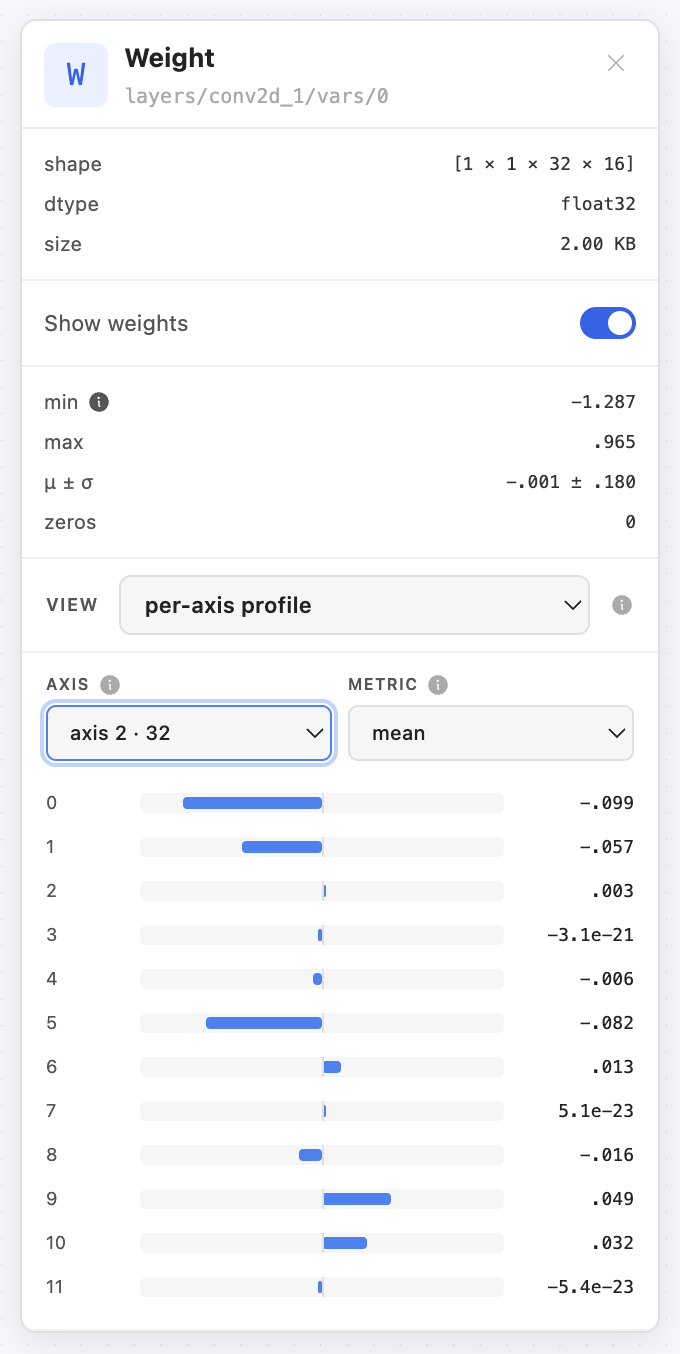
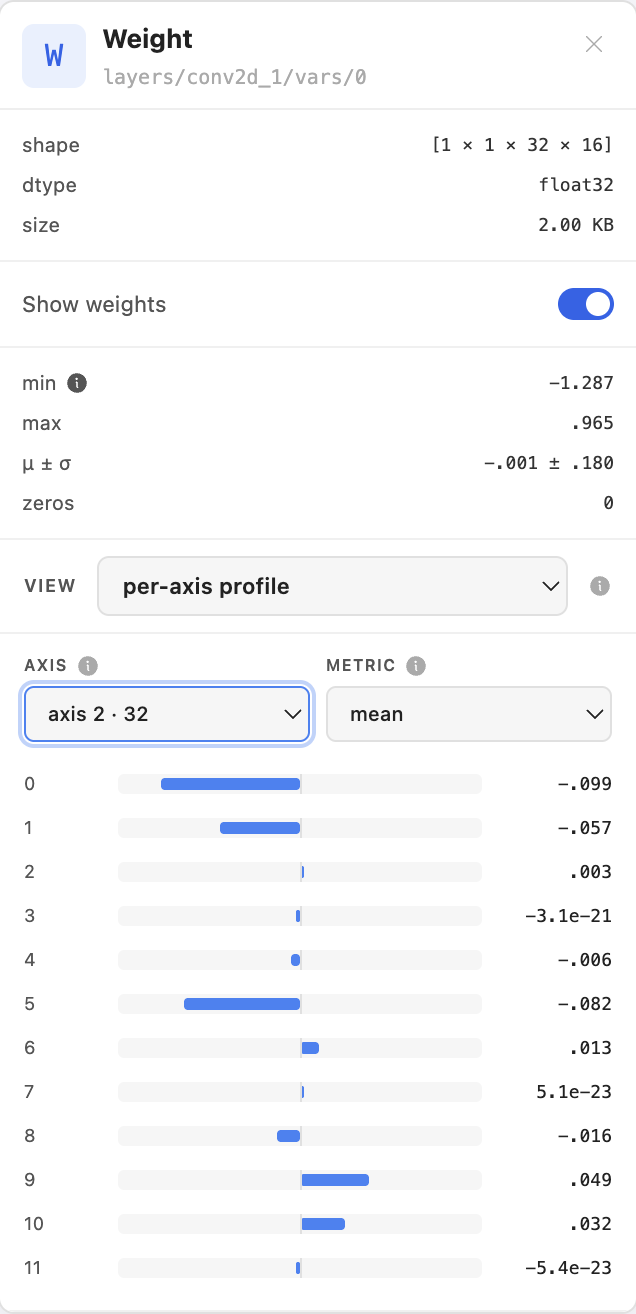
update docs

diff --git a/README.md b/README.md
@@ -2,6 +2,13 @@
 
 **[wetron.app](https://wetron.app)** - Browser-native inspector for neural network models and GGUF LLM files. Open a model file and explore its computation graph, metadata, tensor shapes, and weight statistics - fully in the browser, no upload, no server, no telemetry.
 
+<p align="center">
+  <picture>
+    <source media="(prefers-color-scheme: dark)" srcset="docs/assets/images/graph-with-heatmap-dark.png">
+    <img src="docs/assets/images/graph-with-heatmap-light.png" alt="Wetron showing a SavedModel graph with the weight panel open on a conv kernel">
+  </picture>
+</p>
+
 ## Why
 
 Existing model inspection tools either run as native desktop apps (Netron) or push files through hosted services. Neither is acceptable when the model itself is the sensitive artefact - proprietary weights, medical models, audited systems under the EU AI Act, or research code that can't leave a network.
@@ -51,20 +58,41 @@ Peer dependencies for `@wetron/react`: `react >=18`, `@xyflow/react >=12`, `@pho
 ## Usage
 
 ```ts
-import { parseModel } from '@wetron/core';
+import { parseModel } from "@wetron/core";
 
 const bytes = new Uint8Array(await file.arrayBuffer());
 const graph = await parseModel(bytes, file.name); // auto-detects format from magic bytes
 ```
 
 ```tsx
-import { ModelGraphView } from '@wetron/react';
-import '@wetron/react/styles.css';
+import { ModelGraphView } from "@wetron/react";
+import "@wetron/react/styles.css";
 
 <ModelGraphView graph={graph} colorMode="system" />;
 ```
 
 See the [docs](docs/) for the full API reference, Svelte examples, and theming tokens.
+
+## Weight inspectors
+
+Select an initializer tensor and the property panel decodes its bytes on demand, then offers the views that fit the tensor: matrix, distribution, per-axis profile, sparsity, kernel gallery, quantization (GGUF `Q4_0`), diagnostics, and raw values.
+
+<table>
+<tr>
+<td align="center"><picture>
+  <source media="(prefers-color-scheme: dark)" srcset="docs/assets/images/property-panel-matrix-dark.png">
+  <img src="docs/assets/images/property-panel-matrix-light.png" alt="Matrix inspector - 2-D slice heatmap" width="260">
+</picture><br>matrix</td>
+<td align="center"><picture>
+  <source media="(prefers-color-scheme: dark)" srcset="docs/assets/images/property-panel-kernel-gallery-dark.png">
+  <img src="docs/assets/images/property-panel-kernel-gallery-light.png" alt="Kernel gallery inspector - per-filter spatial kernels" width="260">
+</picture><br>kernel gallery</td>
+<td align="center"><picture>
+  <source media="(prefers-color-scheme: dark)" srcset="docs/assets/images/property-panel-diagnostics-dark.png">
+  <img src="docs/assets/images/property-panel-diagnostics-light.png" alt="Diagnostics inspector - outlier and constant slice findings" width="260">
+</picture><br>diagnostics</td>
+</tr>
+</table>
 
 ## Development
 
@@ -97,8 +125,10 @@ cd apps/demo-svelte && pnpm dev   # Svelte
 ### Docs
 
 ```sh
-cd docs && pnpm install && pnpm run dev   # Hugo site at localhost:1313
+cd docs && pnpm run setup && pnpm run dev   # Hugo site at localhost:1313
 ```
+
+The docs site is not a workspace package and needs a flat `node_modules` for Hugo's module mounts and Sass import paths, so install it with `pnpm run setup` (`pnpm install --ignore-workspace`) rather than a plain `pnpm install`.
 
 ## Documentation
 

diff --git a/docs/content/docs/guide/introduction.md b/docs/content/docs/guide/introduction.md
@@ -5,13 +5,13 @@ lead: 'Wetron is a browser-native library for parsing and visualising ML model g
 weight: 10
 ---
 
-{{< themed-img light="images/graph-with-heatmap-light.png" dark="images/graph-with-heatmap-dark.png" alt="Loaded model graph with the property panel showing a weight heatmap" >}}
+{{< themed-img light="images/graph-with-heatmap-light.png" dark="images/graph-with-heatmap-dark.png" alt="Loaded model graph with the property panel showing a weight tensor as a heatmap" >}}
 
 ## What it does
 
 Wetron reads neural network model files and produces a structured graph of operators, inputs, and outputs. That graph can then be rendered as an interactive diagram using the React or Svelte renderer packages.
 
-ONNX, TFLite, and GGUF expose initializer bytes through `ModelGraph.weights`, so the property panel can decode supported tensor types and show histograms and heatmaps. TF2 SavedModel models load weights from the external checkpoint pair via `loadSavedModelWeights`.
+ONNX, TFLite, and GGUF expose initializer bytes through `ModelGraph.weights`, so the property panel can decode supported tensor types and open them in a [weight inspector](../rendering/react/#weight-inspectors) - heatmap, distribution, per-axis profile, sparsity, kernel gallery, quantization, or diagnostics. TF2 SavedModel models load weights from the external checkpoint pair via `loadSavedModelWeights`.
 
 All parsing runs in the browser via native Web APIs - `ArrayBuffer`, `DataView`, `TextDecoder`, `DecompressionStream`. No model data leaves the device.
 

diff --git a/docs/content/docs/rendering/svelte.md b/docs/content/docs/rendering/svelte.md
@@ -90,4 +90,4 @@ type PanelTarget =
 - `colorMode="system"` reads `prefers-color-scheme` via a media query listener.
 - Layout is computed once on mount via Dagre; re-computed when `graph` changes.
 - Theme colours for node categories come from `@wetron/tokens`.
-- Initializer tensors use the same weight-inspection flow as React: lazy decoding, summary statistics, and the full [inspector set](../react/#weight-inspectors) - matrix, distribution, per-axis profile, sparsity, kernel gallery, quantization, diagnostics, and a virtualized values grid. Pass `graph` to `NodePropertyPanel` so it can distinguish initializers from live tensors.
+- Initializer tensors use the same weight-inspection flow as React: lazy decoding, summary statistics, and the full [inspector set](react/#weight-inspectors) - matrix, distribution, per-axis profile, sparsity, kernel gallery, quantization, diagnostics, and a virtualized values grid. Pass `graph` to `NodePropertyPanel` so it can distinguish initializers from live tensors.
